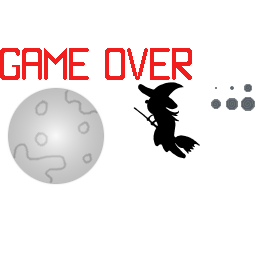
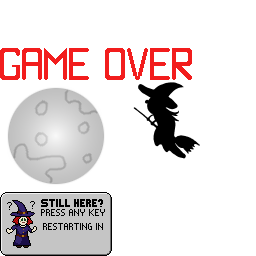
idle restart

Changed region(s): [[0.0, 0.75, 0.4375, 1.0], [0.8125, 0.3125, 1.0, 0.4375]]

diff --git a/src/opt/gl2/game/fmn_gl2_game.c b/src/opt/gl2/game/fmn_gl2_game.c
@@ -1,4 +1,5 @@
 #include "../fmn_gl2_internal.h"
+#include "opt/fontosaur/fontosaur.h"
 
 void fmn_gl2_game_freshen_map(struct bigpc_render_driver *driver);
 void fmn_gl2_game_render_HERO(struct bigpc_render_driver *driver,struct fmn_sprite_header *sprite);
@@ -25,6 +26,7 @@ void fmn_gl2_game_cleanup(struct bigpc_render_driver *driver) {
   if (DRIVER->game.mintile_vtxv) free(DRIVER->game.mintile_vtxv);
   fmn_gl2_framebuffer_cleanup(&DRIVER->game.transitionfrom);
   fmn_gl2_framebuffer_cleanup(&DRIVER->game.transitionto);
+  fmn_gl2_texture_cleanup(&DRIVER->game.idle_warning_texture);
 }
 
 /* Init.
@@ -227,6 +229,53 @@ void fmn_gl2_game_render_world(struct bigpc_render_driver *driver,int include_he
   }
 }
 
+/* Idle warning.
+ */
+ 
+static void fmn_gl2_render_idle_warning(struct bigpc_render_driver *driver,int s) {
+
+  fmn_gl2_program_use(driver,&DRIVER->program_raw);
+  fmn_gl2_draw_raw_rect(0,0,DRIVER->mainfb.texture.w,DRIVER->mainfb.texture.h,0xff000080);
+
+  if (fmn_gl2_texture_use(driver,14)>=0) {
+    fmn_gl2_program_use(driver,&DRIVER->program_decal);
+    int16_t srcx=0,srcy=DRIVER->game.tilesize*12;
+    int16_t w=DRIVER->game.tilesize*7,h=DRIVER->game.tilesize*4;
+    int16_t dstx=(DRIVER->mainfb.texture.w>>1)-(w>>1);
+    int16_t dsty=(DRIVER->mainfb.texture.h>>1)-(h>>1);
+    fmn_gl2_draw_decal(dstx,dsty,w,h,srcx,srcy,w,h);
+    
+    if (DRIVER->game.idle_warning_time!=s) {
+      DRIVER->game.idle_warning_time=s;
+      char text[2];
+      int textc;
+      if (s>=10) {
+        text[0]='0'+(s%100)/10;
+        text[1]='0'+s%10;
+        textc=2;
+      } else {
+        text[0]='0'+s;
+        textc=1;
+      }
+      struct fontosaur_image image={0};
+      if (fontosaur_render_text(&image,driver->datafile,16,32,0,0xffffffff,0,text,textc)>=0) {
+        fmn_gl2_texture_cleanup(&DRIVER->game.idle_warning_texture);
+        fmn_gl2_texture_init_rgba(&DRIVER->game.idle_warning_texture,image.w,image.h,image.v);
+      }
+      fontosaur_image_cleanup(&image);
+    }
+    
+    // Countdown is centered at 2/3,3/4
+    fmn_gl2_texture_use_object(driver,&DRIVER->game.idle_warning_texture);
+    int16_t tw=DRIVER->game.idle_warning_texture.w;
+    int16_t th=DRIVER->game.idle_warning_texture.h;
+    int16_t tdstx=dstx+(w*2)/3-(tw>>1);
+    int16_t tdsty=dsty+((h*3)>>2)-(th>>1);
+    fmn_gl2_program_use(driver,&DRIVER->program_recal);
+    fmn_gl2_draw_recal(&DRIVER->program_recal,tdstx,tdsty,tw,th,0,0,tw,th,(DRIVER->game.framec&8)?0xff0000ff:0x200000ff);
+  }
+}
+
 /* Render.
  */
  
@@ -273,7 +322,13 @@ void fmn_gl2_game_render(struct bigpc_render_driver *driver) {
     fmn_gl2_render_violin(driver);
   }
   
-  // Finally, if there's a menu it goes on top.
+  // If there's a menu it goes on top.
   struct bigpc_menu *menu=bigpc_get_menu();
   if (menu) fmn_gl2_render_menu(driver,menu);
+  
+  // On even topper, the idle warning if applicable.
+  int idle_time=bigpc_get_idle_warning_time_s();
+  if (idle_time) {
+    fmn_gl2_render_idle_warning(driver,idle_time);
+  }
 }

diff --git a/src/opt/bigpc/bigpc_public.c b/src/opt/bigpc/bigpc_public.c
@@ -61,6 +61,10 @@ int bigpc_init(int argc,char **argv) {
   if (!(bigpc.fmstore=fmstore_new())) return -1;
   if ((err=bigpc_log_init())<0) return err;
   
+  if (BIGPC_IDLE_RESTART_TIME) {
+    fprintf(stderr,"%s: Idle restart time %d. Don't release into prod with this set!\n",bigpc.exename,(int)(BIGPC_IDLE_RESTART_TIME/1000000ll));
+  }
+  
   bigpc_signal_init();
   if ((err=bigpc_video_init())<0) return err;
   if ((err=bigpc_audio_init())<0) return err;
@@ -79,6 +83,8 @@ int bigpc_init(int argc,char **argv) {
   
   bigpc_audio_play(bigpc.audio,1);
   bigpc_clock_reset(&bigpc.clock);
+  bigpc.last_input_time=bigpc.clock.last_real_time_us;
+  bigpc.idle_warning_time=0;
   return 0;
 }
 
@@ -97,6 +103,8 @@ static void bigpc_reset() {
     return;
   }
   bigpc_clock_reset(&bigpc.clock);
+  bigpc.last_input_time=bigpc.clock.last_real_time_us;
+  bigpc.idle_warning_time=0;
 }
 
 /* Pop the top menu off the stack.
@@ -150,6 +158,37 @@ static void bigpc_check_dead_werewolf() {
   }
 }
 
+/* Watch for input changes. If input goes dead for a certain interval, show a warning, then revert to hello.
+ * This is for my GDEX kiosk. Probably not appropriate for production.
+ */
+ 
+static void bigpc_check_idle() {
+  if ((bigpc.menuc>=1)&&(bigpc.menuv[bigpc.menuc-1]->prompt==FMN_MENU_HELLO)) {
+    // No idle warning while the hello menu is up; this is where we kick them back to.
+    bigpc.pvinput=bigpc.input_state;
+    bigpc.last_input_time=bigpc.clock.last_real_time_us;
+    bigpc.idle_warning_time=0;
+  } else if (bigpc.input_state!=bigpc.pvinput) {
+    bigpc.pvinput=bigpc.input_state;
+    bigpc.last_input_time=bigpc.clock.last_real_time_us;
+    bigpc.idle_warning_time=0;
+  } else {
+    int64_t idle_time=bigpc.clock.last_real_time_us-bigpc.last_input_time;
+    if (idle_time>=BIGPC_IDLE_RESTART_TIME) {
+      fmn_log_event("idle-restart","");
+      bigpc_reset();
+    } else if (idle_time>=BIGPC_IDLE_RESTART_WARN_TIME) {
+      bigpc.idle_warning_time=(BIGPC_IDLE_RESTART_TIME-idle_time)/1000000ll+1;
+    } else {
+      bigpc.idle_warning_time=0;
+    }
+  }
+}
+
+int bigpc_get_idle_warning_time_s() {
+  return bigpc.idle_warning_time;
+}
+
 /* Update.
  */
  
@@ -167,6 +206,7 @@ int bigpc_update() {
   // Miscellaneous high-level business logic that had to live here.
   bigpc_check_violin();
   bigpc_check_dead_werewolf();
+  bigpc_check_idle();
   
   // Update game or top menu.
   if (bigpc.menuc) {

diff --git a/src/opt/bigpc/bigpc_internal.h b/src/opt/bigpc/bigpc_internal.h
@@ -46,6 +46,11 @@
 // Unclear why this isn't part of the client.
 #define BIGPC_PLANT_FLOWER_TIME 20000
 
+// Idle restart. Set both to zero to disable this behavior. Both in microseconds.
+// We definitely don't want this in production, and definitely do want it for demo kiosks.
+#define BIGPC_IDLE_RESTART_WARN_TIME (30*1000000ll)
+#define BIGPC_IDLE_RESTART_TIME      (45*1000000ll)
+
 struct bigpc_config {
   char *video_drivers;
   int video_fullscreen;
@@ -87,6 +92,9 @@ extern struct bigpc {
   
   uint8_t input_state;
   int devid_keyboard;
+  int64_t last_input_time; // real us
+  uint8_t pvinput;
+  uint8_t idle_warning_time; // number to show, seconds. zero for none
   
   // Last in the list is on top.
   struct bigpc_menu **menuv;

diff --git a/src/app/hero/fmn_hero_public.c b/src/app/hero/fmn_hero_public.c
@@ -163,13 +163,14 @@ void fmn_hero_set_position(float x,float y) {
 }
 
 void fmn_hero_kill_velocity() {
-  if (fmn_global.hero_dead) return;
   fmn_hero.walkforce=0.0f;
-  fmn_hero.sprite->velx=0.0f;
-  fmn_hero.sprite->vely=0.0f;
   fmn_hero.velx=0.0f;
   fmn_hero.vely=0.0f;
   fmn_global.walking=0;
+  if (fmn_hero.sprite) {
+    fmn_hero.sprite->velx=0.0f;
+    fmn_hero.sprite->vely=0.0f;
+  }
 }
 
 /* Check feet.

diff --git a/src/app/fmn_game_global.c b/src/app/fmn_game_global.c
@@ -9,6 +9,7 @@
 int fmn_game_init() {
   fmn_clear_free_birds();
   fmn_global.itemv[FMN_ITEM_NONE]=1; // let it show an icon in the inventory, so it doesn't look like an item not found yet
+  fmn_hero_kill_velocity();
   
   if (fmn_game_load_map(1)<1) return -1;
   fmn_map_callbacks(FMN_MAP_EVID_LOADED,fmn_game_map_callback,0);

diff --git a/src/opt/gl2/fmn_gl2_internal.h b/src/opt/gl2/fmn_gl2_internal.h
@@ -178,6 +178,8 @@ struct fmn_gl2_game {
   struct fmn_gl2_vertex_raw particlev[FMN_GL2_PARTICLE_LIMIT];
   int particlec;
   float illuminationp;
+  struct fmn_gl2_texture idle_warning_texture;
+  int idle_warning_time;
 };
 
 void fmn_gl2_game_cleanup(struct bigpc_render_driver *driver);

diff --git a/src/opt/gl2/fmn_gl2_texture.c b/src/opt/gl2/fmn_gl2_texture.c
@@ -6,6 +6,7 @@
  
 void fmn_gl2_texture_cleanup(struct fmn_gl2_texture *texture) {
   if (texture->texid) glDeleteTextures(1,&texture->texid);
+  memset(texture,0,sizeof(struct fmn_gl2_texture));
 }
 
 /* Initialize from RGBA.

diff --git a/src/opt/bigpc/bigpc.h b/src/opt/bigpc/bigpc.h
@@ -33,5 +33,6 @@ int bigpc_update();
 struct bigpc_menu *bigpc_get_menu();
 
 uint32_t bigpc_get_game_time_ms();
+int bigpc_get_idle_warning_time_s();
 
 #endif

diff --git a/README.md b/README.md
@@ -15,10 +15,11 @@ And tentatively aiming for full release 29 September 2023, the first full moon o
 
 - [ ] web: Handle gamepad hats. eg Black-on-black gamepad on the MacBook.
 - [x] Lively intro splash.
-- [ ] Idle restart.
+- [x] Idle restart.
 - [ ] Correct song and sound effect levels. Automated analysis?
 - [ ] Make up a new item to take Corn's place, and one for the zero slot. Fill all 16 slots. (mind that item zero comes into play then)
 - - [ ] Membership Hat: Certain monsters won't attack while you're wearing it, but it's an item so you can't use anything else.
+- [ ] Replace village music, now that we have a hello splash. I'm thinking All the Colors of Water.
 
 ### May
 
